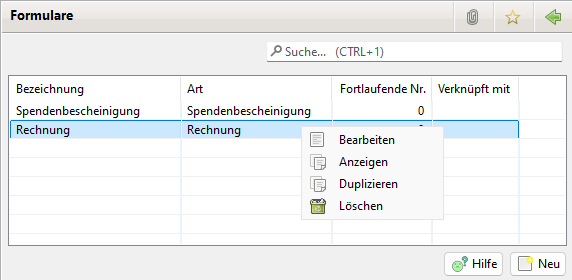
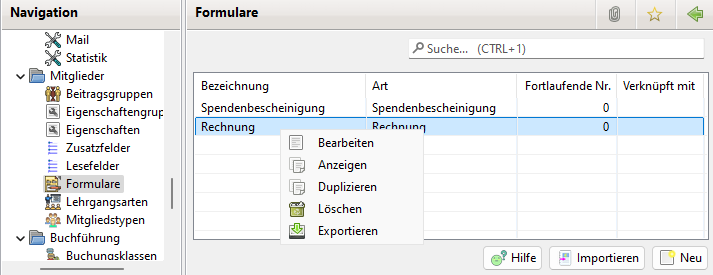
Update für 2.9.0

Changed region(s): [[0.0, 0.0, 1.0, 1.0], [0.4755, 0.1455, 0.9808, 0.2327], [0.3864, 0.7273, 0.5052, 0.7855]]

diff --git a/v2.9.0/notes.md b/v2.9.0/notes.md
@@ -1,6 +1,17 @@
 # Release Notes Version 2.9.0
 
-## The big ones
+## Allgemeines
+
+Mit dieser Version wird die Versionsnummerierung auf die Art MAJOR.MINOR.PATCH umgestellt:
+* MAJOR wird bei inkompatiblen API Änderungen hochgezählt
+* MINOR wird bei neuer Funktionalität hochgezählt 
+* PATCH wird bei Fehlerkorrekturen hochgezählt
+
+Die Idee ist, zukünftig auch in kürzeren Abständen reine Bugfixes freizugeben bei denen keine neuen Funktionen enthalten sind.
+
+Ab dieser Version wird auch eine für jede Version spezifische Dokumentation angelegt. Damit können Anwender einer älteren Version auf ihre passende Dokumentation zugreifen. Bisher war die Dokumentation immer nur für die neueste Version vorhanden.
+
+## The Big Ones
 
 ### Rechnungen
 
@@ -8,14 +19,29 @@ TODO
 
 ### E-Rechnung
 
-* E-Rechnungen können im ZUGFeRD Format erstellt werden
+* Rechnungen werden jetzt im ZUGFeRD Format erstellt. Die generierte Rechnung im PDF Format enthält ein eingebettetes XML Dokument für die elektronische Verarbeitung der Rechnung
 
 ### Spendenbescheinigungen
 
 * PDFs für Spendenbescheinigungen werden verschlüsselt und sind damit schreibgeschützt aber lesbar und druckbar
 * Die gedruckte Unterschrift ist jetzt auch bei Spendenbescheinigung Formularen verfügbar. Sie kann als Formularfeld platziert werden
 * Die gedruckte Unterschrift wird nur bei reinen Geldspenden ausgegeben. Sachspenden und Geldspenden mit Verzicht auf Aufwendungen müssen weiterhin laut steuerlichen Vorgaben per Hand unterschrieben werden
-* Spendenbescheinigungen werden nicht mehr auf das Mitglied ausgestellt sondern auf den, der den Betrag bezahlt hat. Das ist relevant wenn bei einem Mitglied ein abweichender Kontoinhaber oder der Zahlungsweg durch Vollzahler eingestellt ist
+
+### Rücklagen Konten
+
+Für die Konten wurden neu Kontentypen eingeführt:
+* Rücklagenkonto nach § 62 Abs. 1 AO
+* Vermögenskonto nach § 62 Ans. 3 und 4 AO
+* Konto für sonstige Rücklagen
+
+Damit kann ein Verein seine eingestellten Rücklagen in JVerein hinterlegen. Bucht ein Verein Rücklagen auf ein eigenes Bankkonto so ist dieses weiter als Geldkonto zu führen. Man könnte aber die Rücklagen zusätzlich in Rücklagenkonten führen um sie weiter aufzuschlüsseln. Auch werden die separaten Konten bei der Mittelverwendung benötigt.
+
+Buchungen auf diesen Konten gehen nicht in das Buchungsklassensaldo und Kontensaldo ein, weil die Buchungen bereits in regulären Konten enthalten sind. Die Konten werden im Kontensaldo separat aufgelistet.
+
+### Mittelverwendung
+
+* Es gibt eine neue Ansicht "Mittelverwendung" (siehe [Mittelverwendung](buchf/mittelverwendung.md))
+* Diese Funktionalität muss in Administration->Einstellungen->Anzeige aktiviert werden
 
 ## Sonstige Features
 
@@ -35,7 +61,6 @@ TODO
 
 * Bei Zusatzbeträgen kann jetzt ein von der Standard Konfiguration beim Mitglied abweichender Zahlungsweg spezifiziert werden
 
-
 ### Sortierung von Tabellen
 
 * In Tabellen konnte die Sortierung durch Klick auf einen Spaltenkopf geändert werden. Bei einer Änderung des Filters wurde beim Update der Tabelle die Sortierung bei den meisten Tabellen ignoriert. Jetzt wird die Sortierung überall beibehalten
@@ -48,10 +73,25 @@ TODO
 
 * Mit dem Eigenschaften Dialog beim Mitglied lassen sich jetzt auch Eigenschaften editieren die in einer Eigenschaften Gruppe mit Pflicht oder maximal 1 konfiguriert sind
 
+### Export/Import von Formularen
+
+* Formulare können jetzt als Ganzes (Formular Dokument und Formularfelder) exportiert und importiert werden
+
+### Export der Liste der Spendenbescheinigungen
+
+* Die Liste der Spendenbescheinigungen lässt sich als PDF und CSV ausdrucken
+
+### Vor/Zurück Buttons im Filterbereich für Datumseingaben
+
+* Mit den Vor/Zurück Buttons kann man den eingestellten Datumsbereich schnell vor und zurück blättern z.B. monatsweise
+
 ## Kleinere Korrekturen
 
 * Prüfung ob das Mandatsdatum in der Zukunft liegt
 * Das Datum der Gegenbuchung zu den Buchungen eines Abrechnungslaufes wird auf das Datum der Fälligkeit gesetzt
 * Spendenbescheinigungen lassen sich auch für Buchungen aus abgeschlossenen Jahren erzeugen
 * Die Details einer Lastschrift können angezeigt werden
+* Beim Import von Zusatzbeträgen ist das Endedatum nun ein optionaler Parameter im CSV File
+* Zusatzbeträge Import unterstützt jetzt auch den Zahlungsweg
+* Zusätzlich gab es einige Fehlerkorrekturen
 

diff --git a/v2.9.0/mitglieder/zusatzbetrage-importieren.md b/v2.9.0/mitglieder/zusatzbetrage-importieren.md
@@ -58,13 +58,21 @@ Datum der Fälligkeit des Betrages. Format TT.MM.JJJJ
 
 Intervall der Zahlung. 0=keine Wiederholung, 1 = monatlich, 2 = zweimonatlich, 3 = vierteljährlich, 6 = halbjährlich, 12 = jährlich
 
-## Endedatum
+## Endedatum (optional)
 
 Endedatum der Zahlung
 
-## Buchungsart
+## Buchungsart (optional)
 
 Nummer der Buchungsart
+
+## Buchungsklasse (optional)
+
+Nummer der Buchungsklasse
+
+## Zahlungsweg (optional)
+
+Zahlungsweg der Zahlung. 0 = Standard, 1 = Basislastschrift, 2 = Überweisung, 3 = Barzahlung
 
 Jede Datei enthält eine Kopfzeile und pro Zusatzbuchung eine Zeile.
 

diff --git a/v2.9.0/administration/mitglieder/formulare.md b/v2.9.0/administration/mitglieder/formulare.md
@@ -17,6 +17,9 @@ Das Kontextmenü bietet folgende Optionen:
 * Anzeigen: Das fertige Formular wird als PDF generiert und angezeigt
 * Duplizieren: Es wird eine Kopie des Formulars erzeugt
 * Löschen: Damit kann ein Formular, welches noch nicht verwendet wurde, gelöscht werden
+* Exportieren: Damit können die selektierten Formulare inklusive Formular Datei und Formularfelder exportiert werden
+
+Mit dem Button Importieren können vorher exportierte Formulare importiert werden.
 
 ## Formular
 
